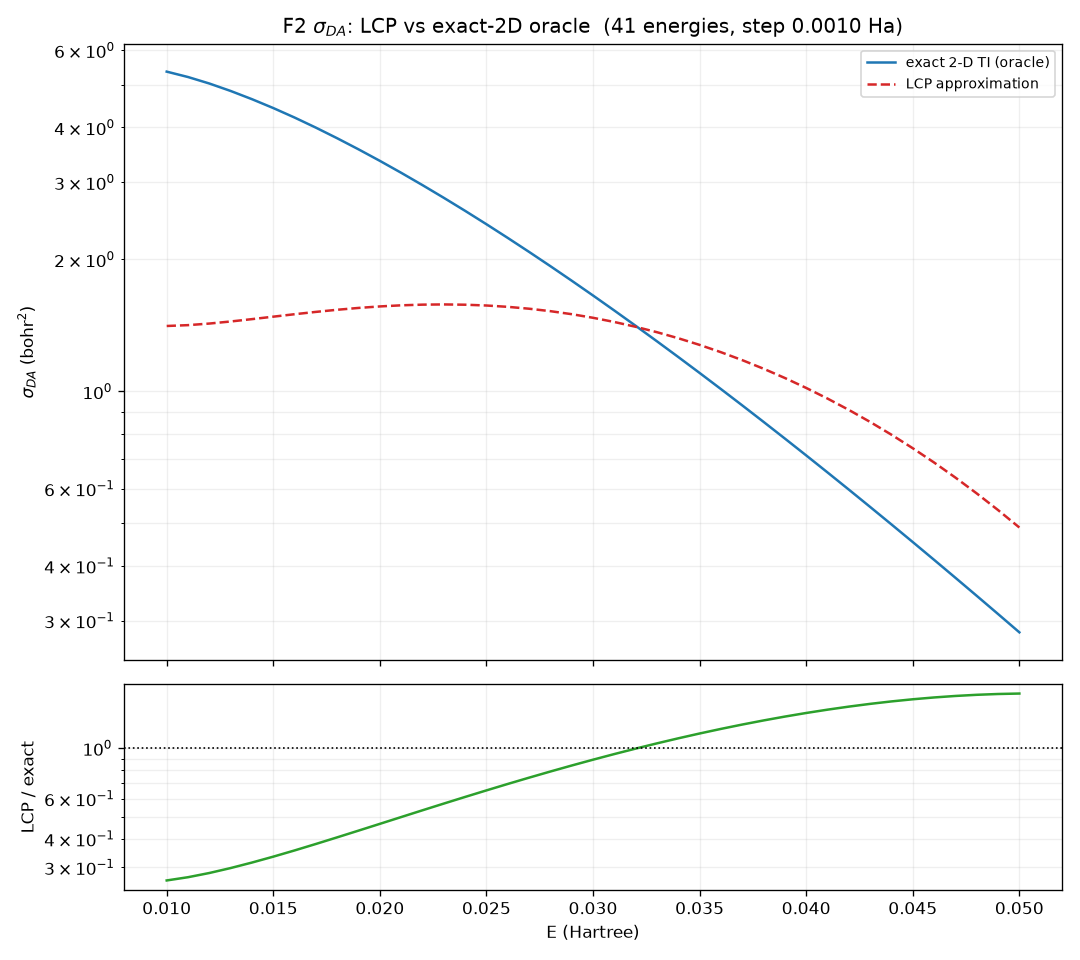
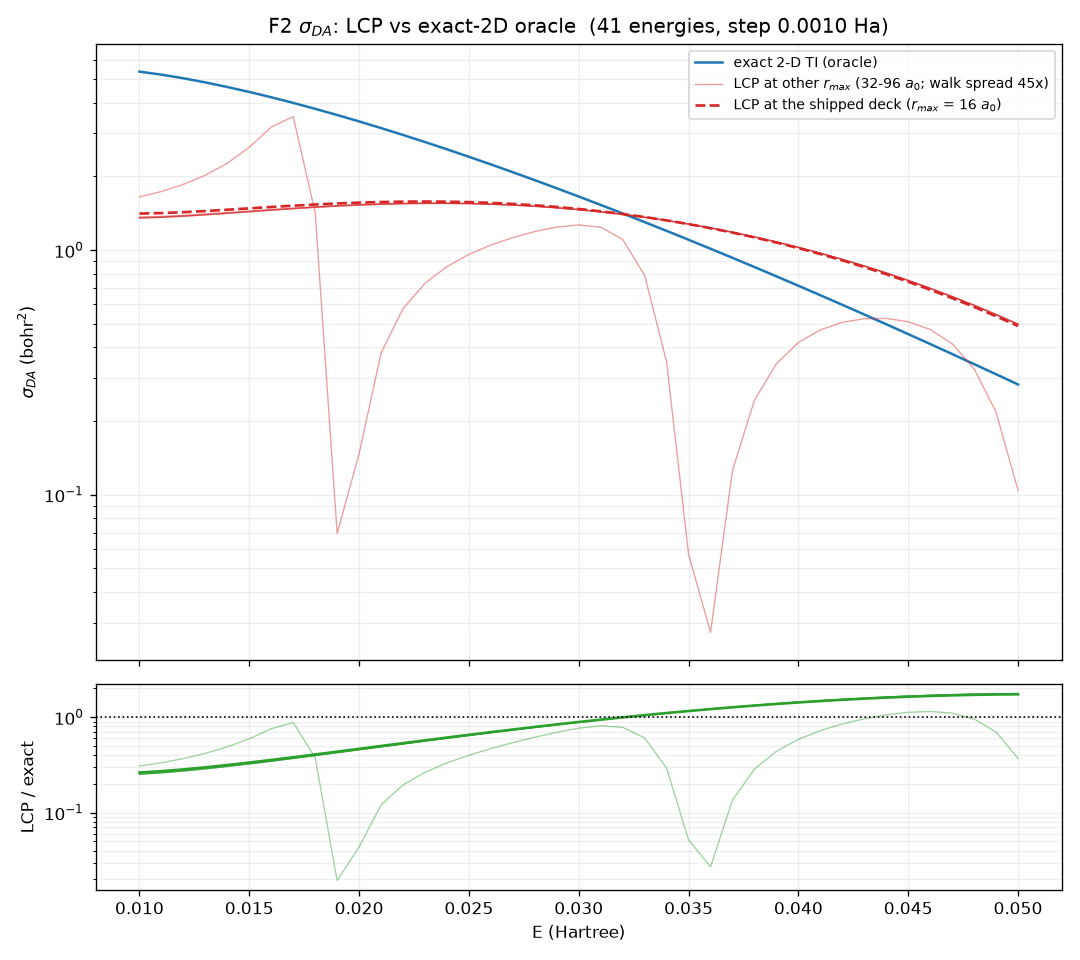
docs(diatomic): draw the LCP as its r_max ladder, not as one curve
The LCP curve on these figures was drawn as a single line while we knew NO's
ECS resonance-pole walk does not converge in the electronic box -- and
`diatomic-ve-cross-sections.md` now points the reader at the figure for exactly
that caveat, which the figure did not carry. Both LCP-vs-exact figures now
overplot the walk at r_max = 16, 32, 48, 64, 80 and 96 bohr, with the shipped
16-bohr deck emphasised.

Overplotting rather than an envelope, because the two molecules fail
DIFFERENTLY and a band would hide which:

  NO   worst per-energy spread 3.98e4x. The larger boxes produce curves with
       deep oscillatory minima spanning 1e-6 to 1e-1 where the shipped deck is
       smooth and flat near 1e-4. Nothing here is a result.
  F2   five of six walks agree to ~1.8% and lie under the shipped curve; only
       r_max=96 breaks, to [0.027, 3.51]. F2's documented 0.263 -> 1.734 sweep
       is therefore a real property of its deck, still legible as the thick
       dashed line and the ratio panel -- NEW measurement, and the reason F2's
       figure is included in this change rather than left alone.

So the LCP's `V_d`/`Gamma` on NO are not merely wrong against the corrected
oracle, they are undetermined; on F2 they are determined and wrong by a
documented, energy-dependent factor. That is a sharper statement than either
figure previously supported, and it is the second defect this investigation
turned up -- separate from the volume-T-matrix one, in NO's pole walk, and
[…]

diff --git a/validation/diatomic/da_figure.py b/validation/diatomic/da_figure.py
@@ -67,6 +67,28 @@ REFERENCE: Final[dict[str, tuple[str, str]]] = {
     ),
 }
 
+# Electronic real-region extents the LCP curve is recomputed over.
+#
+# NOT a convergence study for its own sake -- it is what the LCP curve on these
+# figures HAS to be drawn as. The exact route is edge-insensitive (it reads a
+# boundary flux), but the LCP's `V_d`/`Gamma` come from an ECS resonance-pole
+# walk, and on NO that walk does NOT converge in `r_max`: measured at E=0.175 it
+# gives 1.30e-4, 9.36e-5, 4.30e-2, 1.04e-2, 7.16e-3, 9.33e-4 across the ladder
+# below, non-monotone, with the asymptotic width Gamma(R->R_inf) shrinking as
+# the box grows instead of settling. Drawing one of those six as a line would
+# present an undetermined quantity as a result.
+#
+# F2 is measured on the same ladder rather than assumed converged, and it fails
+# DIFFERENTLY: five of the six walks agree to ~1.8% (sigma_LCP spans
+# [0.48945, 1.5794] at r_max=16 against [0.49841, 1.5514] at 80), and only the
+# r_max=96 walk breaks, to [0.027386, 3.5123]. So F2's documented 0.263 -> 1.734
+# sweep is a real property of its shipped deck; NO has no such property to quote.
+LCP_RMAX_LADDER: Final[tuple[float, ...]] = (16.0, 32.0, 48.0, 64.0, 80.0, 96.0)
+
+# The deck the rest of the repo runs on, and the member of the ladder drawn as a
+# line inside the envelope.
+SHIPPED_RMAX: Final[float] = 16.0
+
 _FIGURE_DIR = Path("docs/physics/figures")
 
 
@@ -88,31 +110,53 @@ def reference_for(molecule: str) -> tuple[npt.NDArray[np.float64], npt.NDArray[n
 
 def compute(
     molecule: str, energies: npt.NDArray[np.float64]
-) -> tuple[npt.NDArray[np.float64], npt.NDArray[np.float64]]:
-    """`(sigma_exact, sigma_lcp)` on `molecule`'s eMoScat production deck.
+) -> tuple[npt.NDArray[np.float64], dict[float, npt.NDArray[np.float64]]]:
+    """`(sigma_exact, {r_max: sigma_lcp})` on `molecule`'s eMoScat nuclear deck.
 
-    Both routes run on the SAME nuclear deck and the same electronic grid the
-    committed figures used, so the comparison is differential.
+    The exact route runs once, on the shipped deck: it reads a boundary flux, so
+    it is invariant under the electronic box to 4 digits over 16 -> 96 bohr
+    (`validation/diatomic/test_no_da_thesis.py` gates that). The LCP route runs
+    once per `LCP_RMAX_LADDER` entry, because its pole walk is not.
+
+    Every route shares the same nuclear deck and the same vibrational basis, so
+    the comparison is differential.
     """
     cfg: MoleculeConfig = CONFIGS[molecule]
     tgrid: TensorGrid = cfg.da_grid()
-    elec, nuc = tgrid.grids
+    nuc = tgrid.grids[1]
     eps, chi = vibrational_states(nuc, cfg.model.mu, cfg.n_vib, cfg.model.v0)
 
     sigma_exact = np.asarray(
         da_cross_section(tgrid, cfg.model, eps, chi, 0, energies), dtype=np.float64
     )[:, 0]
 
-    # The LCP needs the second ECS-angle electronic grid for its pole walk;
-    # `validation.diatomic.nrm.setup` is the one place that pairing is defined.
-    s = setup(molecule)
-    vd, gamma = local_complex_potential(s.model, s.nuc, s.elec, s.elec_b)
-    sigma_lcp = np.asarray(
-        lcp_da_cross_section(s.nuc, s.model.mu, vd, gamma, s.eps, s.chi, 0, energies),
-        dtype=np.float64,
-    )
-    assert elec.n == s.elec.n, "the LCP and exact routes must share the electronic deck"
+    # `setup` is the one place the LCP's paired two-ECS-angle electronic decks
+    # are defined; `_ANGLE_B_DEG` rides along with whatever `r_max` it is given.
+    sigma_lcp: dict[float, npt.NDArray[np.float64]] = {}
+    for r_max in LCP_RMAX_LADDER:
+        s = setup(molecule, e_r_max=r_max)
+        vd, gamma = local_complex_potential(s.model, s.nuc, s.elec, s.elec_b)
+        sigma_lcp[r_max] = np.asarray(
+            lcp_da_cross_section(s.nuc, s.model.mu, vd, gamma, s.eps, s.chi, 0, energies),
+            dtype=np.float64,
+        )
     return sigma_exact, sigma_lcp
+
+
+def lcp_envelope(
+    sigma_lcp: dict[float, npt.NDArray[np.float64]],
+) -> tuple[npt.NDArray[np.float64], npt.NDArray[np.float64], float]:
+    """`(lo, hi, worst_spread)` over the `r_max` ladder, per energy.
+
+    `worst_spread` is the largest `hi/lo` at any energy where the channel is
+    open -- the single number that says whether the LCP curve is determined.
+    """
+    stack = np.vstack([sigma_lcp[r] for r in sorted(sigma_lcp)])
+    lo = stack.min(axis=0)
+    hi = stack.max(axis=0)
+    open_ = lo > 0.0
+    worst = float((hi[open_] / lo[open_]).max()) if open_.any() else float("nan")
+    return lo, hi, worst
 
 
 def _title_suffix(energies: npt.NDArray[np.float64], step: float) -> str:
@@ -123,7 +167,7 @@ def write_figures(
     molecule: str,
     energies: npt.NDArray[np.float64],
     sigma_exact: npt.NDArray[np.float64],
-    sigma_lcp: npt.NDArray[np.float64],
+    sigma_lcp: dict[float, npt.NDArray[np.float64]],
     outdir: Path,
 ) -> list[Path]:
     import matplotlib
@@ -137,7 +181,8 @@ def write_figures(
     # A zero sigma means a closed channel, not a small one: drop it rather than
     # letting a log axis clip it to the bottom of the frame.
     ex = np.where(sigma_exact > 0.0, sigma_exact, np.nan)
-    lcp = np.where(sigma_lcp > 0.0, sigma_lcp, np.nan)
+    _lo, _hi, worst = lcp_envelope(sigma_lcp)
+    shipped = np.where(sigma_lcp[SHIPPED_RMAX] > 0.0, sigma_lcp[SHIPPED_RMAX], np.nan)
     outdir.mkdir(parents=True, exist_ok=True)
     written: list[Path] = []
 
@@ -166,11 +211,11 @@ def write_figures(
     ax.grid(True, which="both", alpha=0.2)
 
     if axz is not None:
-        lo, hi = float(ref_e.min()) - 0.002, float(ref_e.max()) + 0.010
-        sel = (energies >= lo) & (energies <= hi)
+        zlo, zhi = float(ref_e.min()) - 0.002, float(ref_e.max()) + 0.010
+        sel = (energies >= zlo) & (energies <= zhi)
         axz.plot(energies[sel], ex[sel] * 1e9, "-", color="tab:blue", label="exact 2-D TI")
         axz.plot(ref_e, ref_s * 1e9, "o--", color="k", markersize=5, linewidth=1.0, label=ref_label)
-        axz.set_xlim(lo, hi)
+        axz.set_xlim(zlo, zhi)
         axz.set_ylim(0.0, 2.0)
         axz.set_xlabel("E (Hartree)")
         axz.set_ylabel(r"$\sigma_{DA}$ ($10^{-9}$ bohr$^2$)")
@@ -189,7 +234,39 @@ def write_figures(
         2, 1, figsize=(9, 8), sharex=True, gridspec_kw={"height_ratios": [3, 1]}
     )
     ax.plot(energies, ex, "-", color="tab:blue", label="exact 2-D TI (oracle)")
-    ax.plot(energies, lcp, "--", color="tab:red", label="LCP approximation")
+    # The LCP is drawn as ONE THIN LINE PER `r_max`, not as a single curve and
+    # not as an aggregated band. Its `V_d`/`Gamma` come from an ECS pole walk
+    # that is not box-independent, so a single curve would assert a value the
+    # method does not determine -- but an envelope would mislead the other way,
+    # because the two molecules fail differently: NO's walk is non-monotone
+    # across the whole ladder, while F2's agrees to ~1.8% over 16-80 bohr and
+    # then breaks only at 96. Overplotting the individual walks shows which of those
+    # is happening at a glance, and hides neither.
+    others = [r for r in sorted(sigma_lcp) if r != SHIPPED_RMAX]
+    ladder_label = (
+        rf"LCP at other $r_{{max}}$ ({int(min(others))}-{int(max(others))} $a_0$; "
+        rf"walk spread {worst:.3g}x)"
+    )
+    for r in others:
+        curve = np.where(sigma_lcp[r] > 0.0, sigma_lcp[r], np.nan)
+        ax.plot(
+            energies,
+            curve,
+            "-",
+            color="tab:red",
+            linewidth=0.8,
+            alpha=0.45,
+            label=ladder_label,
+        )
+        ladder_label = "_nolegend_"  # one legend entry for the whole ladder
+    ax.plot(
+        energies,
+        shipped,
+        "--",
+        color="tab:red",
+        linewidth=1.6,
+        label=rf"LCP at the shipped deck ($r_{{max}}$ = {int(SHIPPED_RMAX)} $a_0$)",
+    )
     if ref_e.size:
         ax.plot(ref_e, ref_s, "o--", color="k", markersize=5, linewidth=1.0, label=ref_label)
     ax.set_ylabel(r"$\sigma_{DA}$ (bohr$^2$)")
@@ -198,8 +275,17 @@ def write_figures(
     ax.legend(fontsize="small")
     ax.grid(True, which="both", alpha=0.2)
 
-    ratio = np.where(np.isfinite(ex) & (ex > 0.0), lcp / ex, np.nan)
-    axr.plot(energies, ratio, "-", color="tab:green")
+    good = np.isfinite(ex) & (ex > 0.0)
+    for r in others:
+        axr.plot(
+            energies,
+            np.where(good & (sigma_lcp[r] > 0.0), sigma_lcp[r] / ex, np.nan),
+            "-",
+            color="tab:green",
+            linewidth=0.8,
+            alpha=0.45,
+        )
+    axr.plot(energies, np.where(good, shipped / ex, np.nan), "-", color="tab:green", linewidth=1.6)
     axr.axhline(1.0, color="k", linestyle=":", linewidth=1.0)
     axr.set_yscale("log")
     axr.set_xlabel("E (Hartree)")
@@ -208,7 +294,17 @@ def write_figures(
     fig.tight_layout()
     fig.savefig(stem.with_suffix(".png"), dpi=120)
     plt.close(fig)
-    np.savez(stem.with_suffix(".npz"), E=energies, sigma_exact=sigma_exact, sigma_lcp=sigma_lcp)
+    # `sigma_lcp` keeps its shipped-deck meaning for any existing reader; the
+    # per-r_max columns are what the envelope on the figure is drawn from.
+    columns: dict[str, npt.NDArray[np.float64]] = {
+        "E": energies,
+        "sigma_exact": sigma_exact,
+        "sigma_lcp": sigma_lcp[SHIPPED_RMAX],
+    }
+    columns.update({f"sigma_lcp_rmax{int(r)}": v for r, v in sigma_lcp.items()})
+    # numpy types savez's second positional as `allow_pickle`, so a **kwargs
+    # splat of arrays trips the stub; same ignore `qscat_run.artifacts` uses.
+    np.savez(stem.with_suffix(".npz"), **columns)  # type: ignore[arg-type]
     written += [stem.with_suffix(".png"), stem.with_suffix(".npz")]
     return written
 
@@ -222,12 +318,24 @@ def main() -> None:
     energies = energies_for(args.molecule)
     sigma_exact, sigma_lcp = compute(args.molecule, energies)
     open_ = sigma_exact > 0.0
+    _lo, _hi, worst = lcp_envelope(sigma_lcp)
+    shipped = sigma_lcp[SHIPPED_RMAX]
     print(
         f"{args.molecule}: {energies.size} energies, {int(open_.sum())} above the DA threshold; "
-        f"sigma_exact in [{sigma_exact[open_].min():.4e}, {sigma_exact[open_].max():.4e}], "
-        f"LCP/exact in [{(sigma_lcp[open_] / sigma_exact[open_]).min():.4g}, "
-        f"{(sigma_lcp[open_] / sigma_exact[open_]).max():.4g}]"
+        f"sigma_exact in [{sigma_exact[open_].min():.4e}, {sigma_exact[open_].max():.4e}]"
     )
+    print(
+        f"  LCP at the shipped deck (r_max={SHIPPED_RMAX:g}): sigma/exact in "
+        f"[{(shipped[open_] / sigma_exact[open_]).min():.4g}, "
+        f"{(shipped[open_] / sigma_exact[open_]).max():.4g}]"
+    )
+    print(
+        f"  LCP r_max spread over {list(LCP_RMAX_LADDER)}: worst hi/lo = {worst:.4g} "
+        f"({'NOT converged -- drawn as an envelope' if worst > 1.05 else 'converged'})"
+    )
+    for r in LCP_RMAX_LADDER:
+        v = sigma_lcp[r][open_]
+        print(f"    r_max={r:5g}: sigma_LCP in [{v.min():.4e}, {v.max():.4e}]")
     for path in write_figures(args.molecule, energies, sigma_exact, sigma_lcp, args.outdir):
         print(f"wrote {path}")
 

diff --git a/validation/diatomic/nrm.py b/validation/diatomic/nrm.py
@@ -113,23 +113,40 @@ class NrmComparison:
     sigma_nrm_b: npt.NDArray[np.float64]
 
 
-def setup(molecule: str) -> NrmSetup:
+def setup(molecule: str, *, e_r_max: float | None = None) -> NrmSetup:
     """Build the shared grids and vibrational basis for `molecule`.
 
     Parameters
     ----------
     molecule : str
         A `validation.diatomic.config.CONFIGS` key (`"F2"` or `"NO"`).
+    e_r_max : float, optional
+        Electronic real-region extent (bohr), overriding the deck's own
+        `cfg.e_r_max`. BOTH electronic grids move together -- the pole walk
+        needs its two ECS angles on grids that differ only in angle, so
+        overriding one and not the other would silently compare different
+        discretisations. Used by `da_figure.py` to measure how far the LCP's
+        pole walk moves with the box; leave it `None` for the shipped deck.
 
     Returns
     -------
     NrmSetup
     """
     cfg = CONFIGS[molecule]
-    tgrid = cfg.da_grid()
+    r_max = cfg.e_r_max if e_r_max is None else e_r_max
+    tgrid = (
+        cfg.da_grid()
+        if e_r_max is None
+        else TensorGrid(
+            [
+                electronic_grid(r_max=r_max, order=cfg.e_order, n_complex=cfg.e_n_complex),
+                cfg.da_grid().grids[1],
+            ]
+        )
+    )
     elec, nuc = tgrid.grids
     elec_b = electronic_grid(
-        r_max=cfg.e_r_max,
+        r_max=r_max,
         order=cfg.e_order,
         n_complex=cfg.e_n_complex,
         angle_deg=_ANGLE_B_DEG,

diff --git a/docs/physics/diatomic-ve-cross-sections.md b/docs/physics/diatomic-ve-cross-sections.md
@@ -198,6 +198,20 @@ and `CLAUDE.md` quoted "~11% of exact" — both were reading the single crossing
 were a characteristic agreement. It is not: the LCP under-predicts below ~0.03 and
 over-predicts above it, and only *passes through* good agreement on the way.
 
+**That sweep is a real property of F₂'s deck, and the figure now shows why we can say
+so.** The LCP is drawn as its `r_max` ladder (16/32/48/64/80/96) rather than as a single
+curve, because NO's pole walk does not converge in the electronic box. On F₂ **five of
+the six walks agree to ~1.8 %**, so the shipped deck's curve is determined; only
+`r_max = 96` breaks, to a ratio range of [0.027, 3.51], and it is the stray line on
+that figure. On NO the spread is **3.98 × 10⁴** and the larger boxes produce deep
+oscillatory minima spanning 1e-6 to 1e-1 where the shipped deck is smooth and flat.
+
+The distinction is worth stating precisely, because the two failures are not the same
+kind: **on F₂ the LCP's `V_d`/`Γ` are determined and wrong** by the documented
+energy-dependent factor; **on NO they are undetermined.** A single curve, or an
+envelope band, would have flattened that difference — an envelope in particular would
+have made F₂ look as undetermined as NO on the strength of one failed walk.
+
 (The older 13-point curve was not wrong — its endpoints match this dense run exactly — it was
 simply too sparse to show that the ratio never settles.)
 
